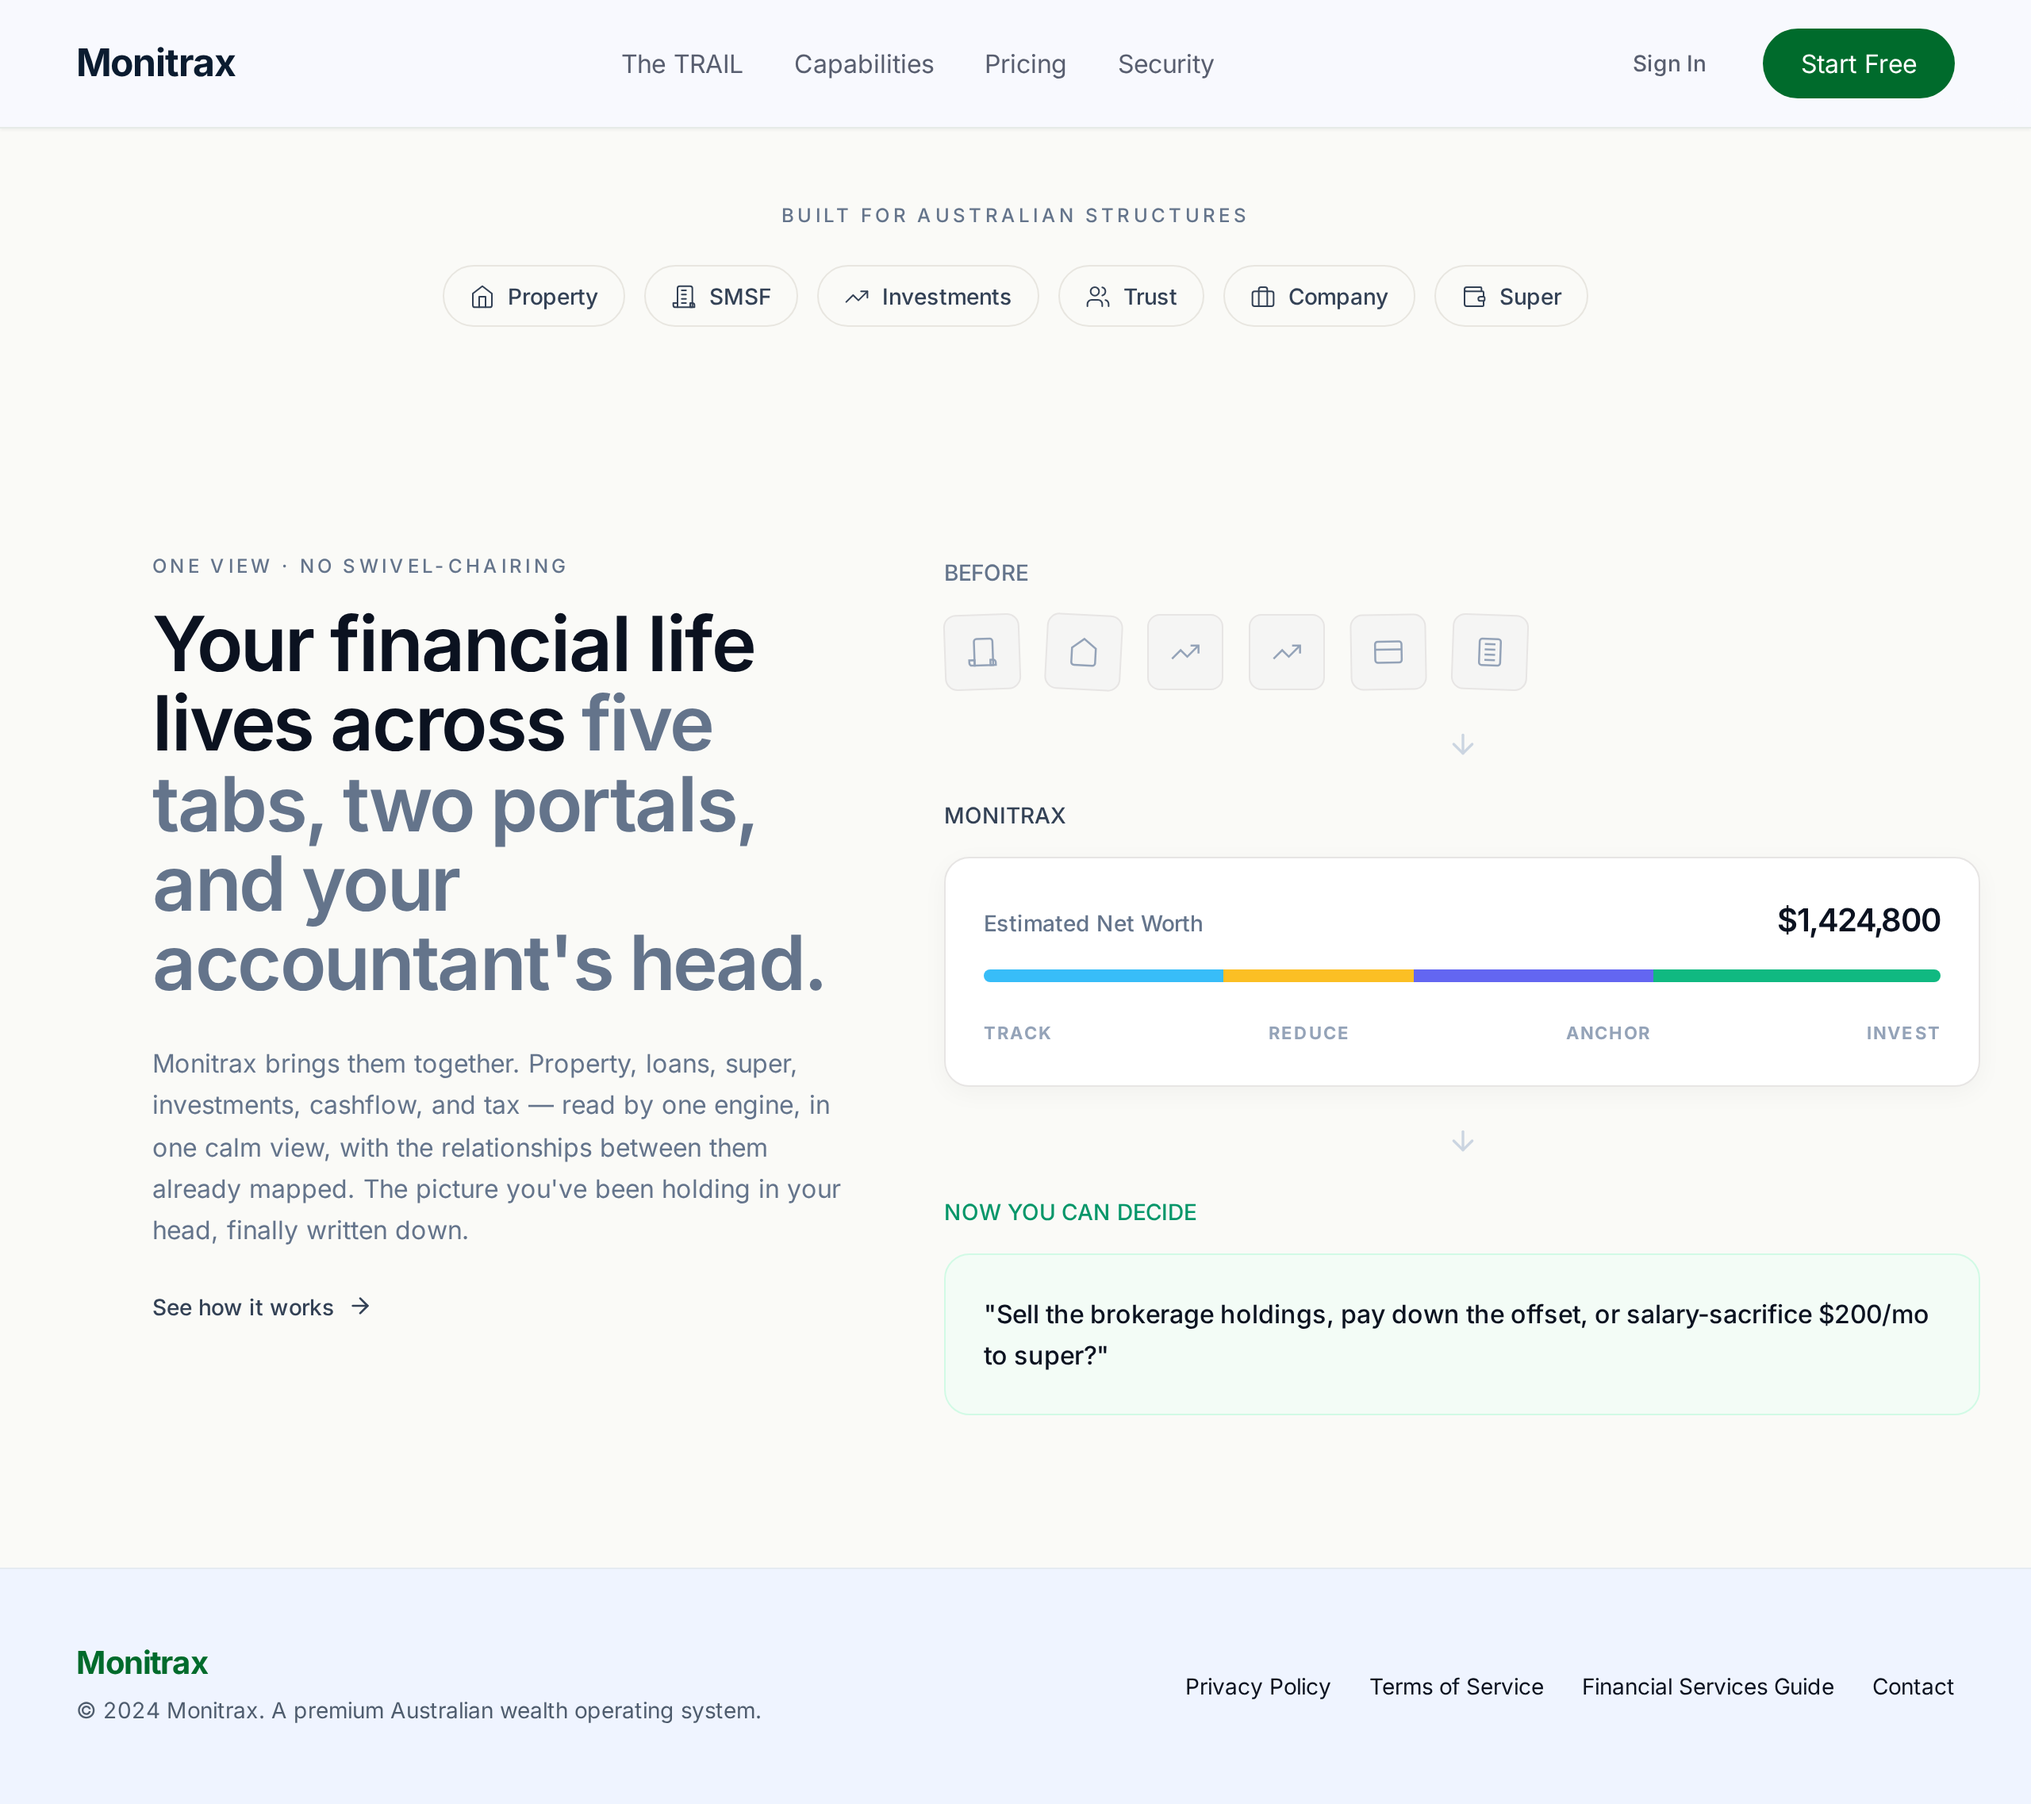
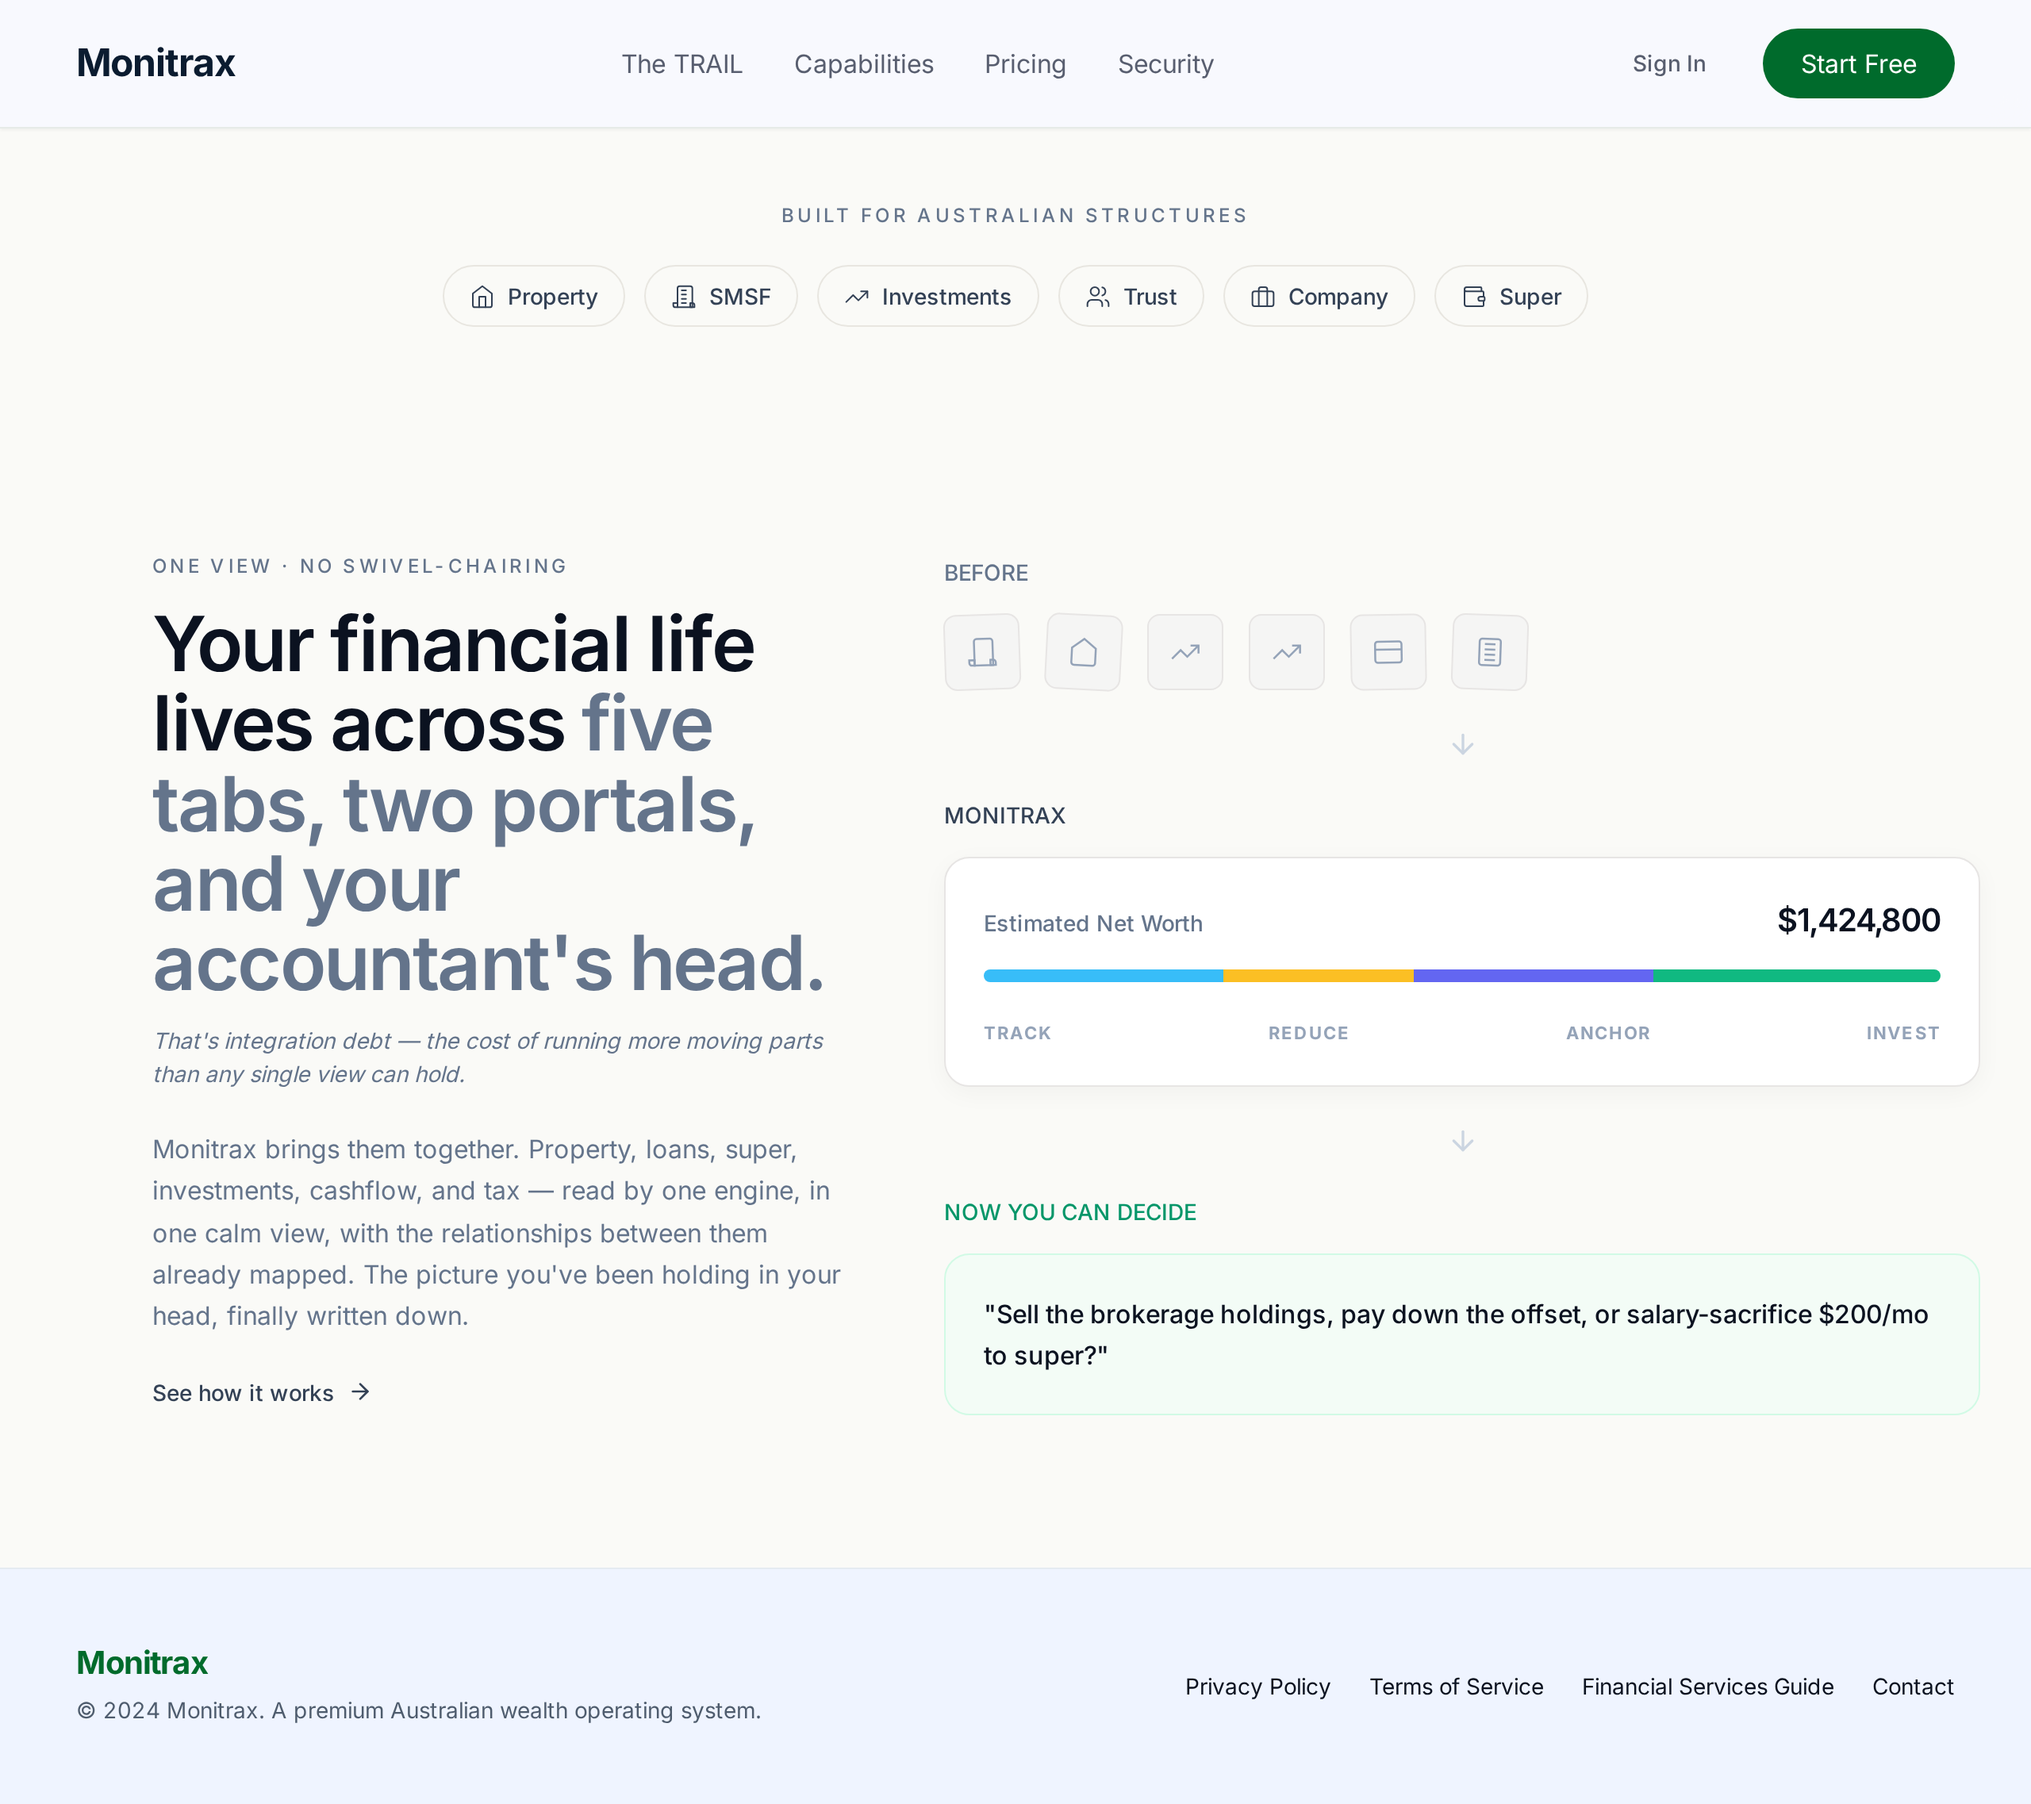
feat(stitch): below-hero v2 + hero v3 edit deferred to React-polish
below-hero v2 (screen c42ad85...):
- Added italic slate-500 caption between One Picture headline and body:
  "That's integration debt — the cost of running more moving parts
   than any single view can hold."
- Captures the Phase 46 / THE_TRAIL_METHOD.md positioning DNA
  ("reducing integration debt" — the wealth-builder differentiator
   from budget tools). v1 preserved at below-hero-v1.{html,png}.

hero v3 DEFERRED (target screen f533d6d...):
- Attempted: secondary CTA → "See your retirement gap in 30 seconds →"
  with href /wealth-check (replacing /trail-check), AND microcopy
  → two-line stack with italic "For households the budget apps
  stopped fitting." (anti-positioning vs budget apps).
- Stitch edit_screens applied DOM patches in editor but did NOT
  persist them to the exportable asset (asset URL bytes unchanged).
- Captured in metadata.deferredEdits for application at React-polish
  phase per locked direction (continue Stitch for IA, hand-polish
  for premium typography/copy precision).

Direction locked this session: continue Stitch through remaining
sections (Five Capabilities, How It Works, Security, AI, Pricing,
FAQ, CTA), then react-components conversion, then hand-polish at
component level using canonical components/shell/ primitives.

https://claude.ai/code/session_01J7fpbBXf7zSTCghRonfAey

Changed region(s): [[0.0625, 0.562, 0.4062, 0.7806]]

diff --git a/.stitch/designs/below-hero-v1.html b/.stitch/designs/below-hero-v1.html
@@ -185,7 +185,7 @@
 <h2 class="mt-4 font-display-lg text-[48px] font-semibold tracking-[-0.025em] leading-[1.05]">
 <span class="text-deep-navy">Your financial life lives across</span>
 <span class="text-slate-500"> five tabs, two portals, and your accountant's head.</span>
-</h2><p class="mt-3 font-['Inter'] font-normal text-[14px] italic text-slate-500 max-w-[52ch] leading-1.6">That's integration debt — the cost of running more moving parts than any single view can hold.</p>
+</h2>
 <p class="mt-6 text-slate-500 font-body-md text-body-md leading-[1.65]">
                         Monitrax brings them together. Property, loans, super, investments, cashflow, and tax — read by one engine, in one calm view, with the relationships between them already mapped. The picture you've been holding in your head, finally written down.
                     </p>
